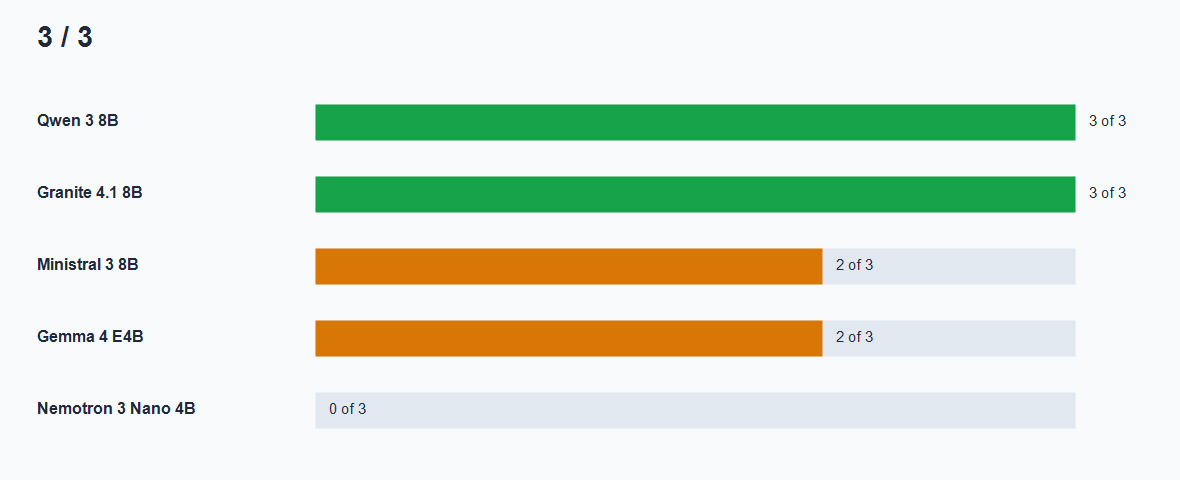
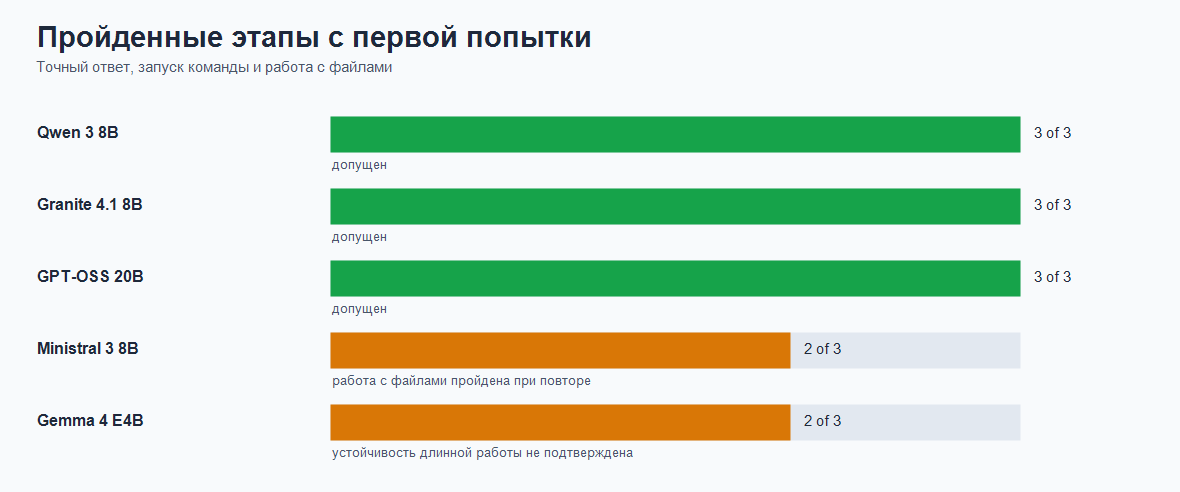
docs: add fifth local coder candidate

diff --git a/README.md b/README.md
@@ -8,110 +8,105 @@
 
 Для основной очереди остаётся `qwen3:8b-q4_K_M-ctx40k`.
 
-Из двух свежих и необычных гостей стоит оставить
-`ministral-3:8b-ctx32k`. Он не идеален, но умеет работать с файлами и полностью
-помещается в видеопамять.
-
-`nemotron-3-nano:4b-ctx32k` пока отклонён. Он очень лёгкий и быстрый, но трижды
-не понял задачу. Получился резвый собеседник вместо помощника программиста.
+В следующий круг проходят пять профилей. Два необычных новичка тоже нашли своё
+место: `ministral-3:8b-ctx32k` прошёл со второй попытки, а
+`gpt-oss:20b-ctx32k` прошёл все ступени сразу. Последний крупнее и медленнее,
+зато честно работает с файлами и целиком помещается в видеопамять.
 
 ## Как мы сюда пришли
 
-Сначала мы проверяли очевидных кандидатов. Затем выяснилось, что размер модели
-говорит не всё. Важен ещё размер рабочего окна: слишком большое окно съедает
-память, и часть работы переезжает в обычную память компьютера. После этого
-скорость начинает гулять.
-
-Поэтому для каждой модели появилась своя настройка:
+Размер модели говорит не всё. Важно ещё рабочее окно: слишком большое окно
+съедает память, и часть работы переезжает в обычную память компьютера. После
+этого скорость начинает гулять. Поэтому у каждой модели своя настройка.
 
 | Модель | Рабочее окно | Размещение | Итог |
 |---|---:|---|---|
 | `qwen3:8b-q4_K_M-ctx40k` | `40960` | `100% GPU` | Основной кандидат |
 | `granite4.1:8b-ctx32k` | `32768` | `100% GPU` | Надёжный запасной кандидат |
-| `gemma4:e4b-ctx128k` | `131072` | `100% GPU` | Быстрая, но нестабильная в длинной работе |
-| `ministral-3:8b-ctx32k` | `32768` | `100% GPU` | Новый интересный кандидат |
-| `nemotron-3-nano:4b-ctx32k` | `32768` | `100% GPU` | Пока отклонён |
+| `gemma4:e4b-ctx128k` | `131072` | `100% GPU` | Для ограниченных задач; длинная работа требует повтора |
+| `ministral-3:8b-ctx32k` | `32768` | `100% GPU` | Новый кандидат; следим за повторяемостью |
+| `gpt-oss:20b-ctx32k` | `32768` | `100% GPU` | Новый тяжёлый кандидат |
 
-`GPU` в таблице означает видеокарту. Правило строгое: если модель начинает
-выгружаться в обычную память, в следующий круг она не проходит.
+`GPU` означает видеокарту. Правило строгое: если модель начинает выгружаться в
+обычную память, в следующий круг она не проходит.
 
 ![Размер настройки в видеопамяти](docs/assets/model-gpu-footprint.png)
 
-## Два гостя с боковой двери
+![Рабочее окно моделей](docs/assets/model-context-window.png)
+
+## Два новичка
 
 ### Ministral 3 8B
 
-Почему взяли: модель свежая, рассчитана на работу рядом с пользователем и
-заявляет встроенные вызовы средств. В каталоге Ollama у семейства около
-`1.1M` загрузок.
-
-Что получилось:
+Почему взяли: свежая модель для работы рядом с пользователем. В каталоге Ollama
+у семейства около `1.1M` загрузок.
 
 | Этап | Время | Итог |
 |---|---:|---|
 | Точный ответ | `43.4` с | Пройден |
 | Запуск команды | `78.2` с | Пройден |
-| Работа с файлами, первая попытка | `206.7` с | Почти пройден: пропущено чтение `CHANGELOG.md` |
+| Работа с файлами, первая попытка | `206.7` с | Пропущено чтение `CHANGELOG.md` |
 | Работа с файлами, повтор | `219.5` с | Пройден полностью |
 
-Модель умеет читать файлы, создавать новый файл, запускать команды и проверять
-состояние Git. На первой попытке она поспешила и пропустила один обязательный
-шаг. На второй собралась и сделала всё по списку.
+Модель умеет читать файлы, создавать файл, запускать команды и проверять
+состояние Git. Сначала поспешила, затем собралась и сделала всё по списку.
 
-Вывод: оставить в очереди для задач с кодом, но следить за повторяемостью.
+### GPT-OSS 20B
 
-### Nemotron 3 Nano 4B
-
-Почему взяли: свежая гибридная модель NVIDIA, маленькая и необычная по
-устройству. В каталоге Ollama у семейства около `428K` загрузок за первый
-месяц.
-
-Что получилось:
+Почему взяли: это необычная смесь экспертов в компактном формате `MXFP4`.
+Ollama прямо рекомендует семейство для Claude Code; в каталоге около `9.7M`
+загрузок.
 
 | Этап | Время | Итог |
 |---|---:|---|
-| Точный ответ | `26.1` с | Не пройден |
-| Запуск команды | `51.8` с | Не пройден |
-| Работа с файлами | `19.8` с | Не пройден |
+| Точный ответ | `52.6` с | Пройден |
+| Запуск команды | `43.8` с | Пройден |
+| Работа с файлами | `294.9` с | Пройден |
 
-Модель полностью помещается в видеопамять: всего `5.7` ГБ. Но вместо выполнения
-задания она просит уточнить, чем помочь. Экономия памяти прекрасна, однако
-отвёртка всё-таки должна крутить винты.
-
-Вывод: не использовать с Claude Code на текущем стенде.
+На RX 6800 профиль занимает `14` ГБ и остаётся на `100% GPU`: все `25/25`
+слоёв размещены в видеопамяти. Модель не спринтер, но финиш видит.
 
 ![Этапы с первой попытки](docs/assets/model-first-attempt-score.png)
 
 ## Кто быстрее в сложной работе
 
 Сравниваем только успешные проходы работы с файлами. Провал за три секунды не
-является рекордом скорости, как бы заманчиво это ни выглядело в таблице.
+является рекордом скорости, как бы заманчиво это ни выглядело.
 
 ![Время успешной работы с файлами](docs/assets/model-successful-agent-time.png)
 
 `qwen3:8b-q4_K_M-ctx40k` остаётся самым ровным выбором. Granite медленнее, зато
-предсказуем. Ministral уже заслужил место в следующем круге: чуть медленнее
-Granite и с одной осечкой, но это осечка рабочего помощника, а не пустой ответ.
+предсказуем. Ministral заслужил место в очереди с пометкой о повторе. GPT-OSS
+занимает почти всю видеопамять и работает медленнее, но даёт полезную пятую
+точку сравнения.
+
+## Кто пока не прошёл
+
+`nemotron-3-nano:4b-ctx32k` занимал всего `5.7` ГБ и оставался на `100% GPU`,
+но трижды не понял задачу Claude Code. Экономия памяти прекрасна, однако
+отвёртка всё-таки должна крутить винты. Поэтому на графиках его нет.
 
 ## Что делать дальше
 
-1. Прогнать `qwen3:8b-q4_K_M-ctx40k`, `granite4.1:8b-ctx32k` и
-   `ministral-3:8b-ctx32k` на небольшом наборе задач с тестами.
+1. Прогнать пять профилей на небольшом наборе задач с тестами.
 2. Для Ministral считать долю успешных повторов, а не один красивый проход.
-3. Gemma оставить для ограниченных задач и отдельно разбирать остановку после
-   первого чтения файла.
-4. Nemotron пока оставить за дверью. Он быстрый, но принёс не тот чемодан.
+3. Для Gemma отдельно разобрать остановку после первого чтения файла.
+4. Сравнивать GPT-OSS с Qwen по качеству результата: за лишние минуты хочется
+   получать не философию, а исправленный код.
 
 ## Где лежат подробности
 
 - [Стратегия проверки](docs/specs/coder-model-benchmark-strategy.md)
 - [Порядок запуска](docs/runbooks/coder-model-evaluation.md)
 - [Подбор рабочего окна](docs/runbooks/runs/2026-06-01-favorite-model-ctx-sweep.md)
-- Сырые результаты новых моделей:
-  `.artifacts/claude-ollama-headless/20260601T223657/` и
-  `.artifacts/claude-ollama-headless/20260601T224439/`
+- [Проверка GPT-OSS 20B](docs/runbooks/runs/2026-06-02-gpt-oss-20b-ctx32k-full-gpu-gate.md)
+- Сырые результаты GPT-OSS:
+  `.artifacts/claude-ollama-headless/20260602T041314/` и
+  `.artifacts/claude-ollama-headless/20260602T041411/`
 
 Источники по новым моделям:
 
 - [Ministral 3 в Ollama](https://ollama.com/library/ministral-3)
 - [Nemotron 3 Nano в Ollama](https://ollama.com/library/nemotron-3-nano)
+- [GPT-OSS в Ollama](https://ollama.com/library/gpt-oss)
+- [Рекомендации Ollama для Claude Code](https://ollama.com/blog/launch)

diff --git a/docs/specs/coder-model-benchmark-strategy.md b/docs/specs/coder-model-benchmark-strategy.md
@@ -138,6 +138,7 @@ Captured from local Ollama `/api/show`:
 | `granite4.1:8b-ctx32k` | `8.8B` | `Q4_K_M` | completion, tools | Local RX 6800 profile derived from `granite4.1:8b`; require exact-profile local evidence |
 | `ministral-3:8b-ctx32k` | `8.9B` | `Q4_K_M` | completion, vision, tools | Unconventional edge-oriented candidate; full agent pass observed on retry |
 | `nemotron-3-nano:4b-ctx32k` | `4.0B` | `Q4_K_M` | completion, tools, thinking | Lightweight unconventional candidate; reject for current Claude Code task flow |
+| `gpt-oss:20b-ctx32k` | `20.9B` | `MXFP4` | completion, tools, thinking | Unconventional mixture-of-experts candidate; full local gate passed |
 
 ## Current Evidence
 
@@ -307,13 +308,15 @@ default. VRAM fit and multi-step agent reliability are separate gates.
 
 ## Unconventional Candidate Probe
 
-Two rising Ollama models outside the existing Qwen, Gemma, and Granite track
-were tested with stand-specific `ctx32k` profiles.
+Rising Ollama models outside the existing Qwen, Gemma, and Granite track were
+tested with stand-specific `ctx32k` profiles. The second working newcomer was
+selected by continuing after the Nemotron rejection.
 
 | Model | Placement | Handshake | Tool | Agent | Decision |
 |---|---|---|---|---|---|
 | `ministral-3:8b-ctx32k` | `100% GPU`, `35/35` layers | Pass | Pass | Pass on retry | Add to exploratory coder fixtures; track repeatability |
 | `nemotron-3-nano:4b-ctx32k` | `100% GPU`, `43/43` layers | Fail | Fail | Fail | Reject for current Claude Code workflow |
+| `gpt-oss:20b-ctx32k` | `100% GPU`, `25/25` layers | Pass | Pass | Pass | Add as fifth working profile |
 
 Ministral completed file creation, Bash verification, and git-status
 grounding. Its first agent attempt skipped the required repository read; the
@@ -322,6 +325,11 @@ second attempt completed the full contract.
 Nemotron repeatedly answered as if no task had been supplied. Its small GPU
 footprint is useful evidence, but placement alone does not make a coding
 agent.
+
+GPT-OSS retained `100% GPU` placement with a `14 GB` runtime size and completed
+the full file-editing contract. Its `294.941` second agent pass is slower than
+the lighter qualified profiles, so the next stage must compare code quality,
+not latency alone.
 
 ## Local Coder Benchmark Ladder
 
@@ -414,6 +422,7 @@ For `win11-local-rx6800`:
 2. `gemma4:e4b-ctx128k` for bounded benchmarks; agent reliability unresolved
 3. `granite4.1:8b-ctx32k`
 4. `ministral-3:8b-ctx32k` as an exploratory candidate; track repeatability
+5. `gpt-oss:20b-ctx32k` as a heavier exploratory candidate
 
 Keep `llama3.2:latest` as a negative control only.
 

diff --git a/docs/runbooks/runs/2026-06-02-gpt-oss-20b-ctx32k-full-gpu-gate.md b/docs/runbooks/runs/2026-06-02-gpt-oss-20b-ctx32k-full-gpu-gate.md
@@ -1,0 +1,58 @@
+# Run Record: GPT-OSS 20B `ctx32k` Full-GPU Gate
+
+## Question
+
+Can the unconventional `gpt-oss:20b` Ollama model stay entirely on the RX 6800
+and complete the Claude Code headless tool loop?
+
+## Profile
+
+- Date: `2026-06-02`
+- Stand: `win11-local-rx6800`
+- Endpoint: `http://localhost:11434`
+- Upstream model: `gpt-oss:20b`
+- Local profile: `gpt-oss:20b-ctx32k`
+- Context: `32768`
+- Architecture: `gptoss`
+- Parameters: `20.9B`
+- Quantization: `MXFP4`
+
+Build command:
+
+```powershell
+ollama create gpt-oss:20b-ctx32k `
+  -f tools\modelfiles\gpt-oss-20b-ctx32k.Modelfile
+```
+
+## Result
+
+| Stage | Seconds | Placement | Result |
+|---|---:|---|---|
+| `handshake` | `52.633` | `100% GPU` | Pass |
+| `tool` | `43.841` | `100% GPU` | Pass |
+| `agent` | `294.941` | `100% GPU` | Pass |
+
+Runtime evidence:
+
+```text
+SIZE       14 GB
+PROCESSOR  100% GPU
+CONTEXT    32768
+offloaded  25/25 layers to GPU
+```
+
+The agent stage observed repository read, Bash execution, file creation, and
+git-status grounding.
+
+## Artifacts
+
+```text
+.artifacts/claude-ollama-headless/20260602T041314/
+.artifacts/claude-ollama-headless/20260602T041411/
+```
+
+## Decision
+
+Add `gpt-oss:20b-ctx32k` as the fifth working RX 6800 profile. Keep it behind
+the lighter profiles until code-quality fixtures show whether its slower
+agent pass pays for itself.

diff --git a/docs/runbooks/coder-model-evaluation.md b/docs/runbooks/coder-model-evaluation.md
@@ -140,6 +140,8 @@ ollama create ministral-3:8b-ctx32k `
   -f tools\modelfiles\ministral-3-8b-ctx32k.Modelfile
 ollama create nemotron-3-nano:4b-ctx32k `
   -f tools\modelfiles\nemotron-3-nano-4b-ctx32k.Modelfile
+ollama create gpt-oss:20b-ctx32k `
+  -f tools\modelfiles\gpt-oss-20b-ctx32k.Modelfile
 ```
 
 `ministral-3:8b-ctx32k` reached a full agent pass on retry at `100% GPU`.
@@ -147,6 +149,11 @@ Include it in exploratory coder fixtures and measure repeatability.
 
 `nemotron-3-nano:4b-ctx32k` stayed at `100% GPU` but failed the Claude Code
 task flow at every stage. Keep it as a negative control only.
+
+`gpt-oss:20b-ctx32k` stayed at `100% GPU` with `25/25` layers offloaded and a
+`14 GB` runtime size. It passed handshake, structured Bash execution,
+repository read, file creation, and git-status grounding on the first full
+run. Include it as the fifth working profile.
 
 ## Phase 2: Local Coder Fixture
 

diff --git a/CHANGELOG.md b/CHANGELOG.md
@@ -67,3 +67,8 @@
 - Added a Russian project README with a concise narrative report and generated
   PNG charts for GPU footprint, first-attempt stage completion, and successful
   file-work latency.
+- Continued the unconventional-model search after the Nemotron rejection and
+  selected `gpt-oss:20b-ctx32k` as the fifth working RX 6800 profile: it passed
+  handshake, structured tool use, and repository editing at `100% GPU`.
+- Refined the README charts to include working profiles only, added explanatory
+  labels, and added a selected-context-window chart.
